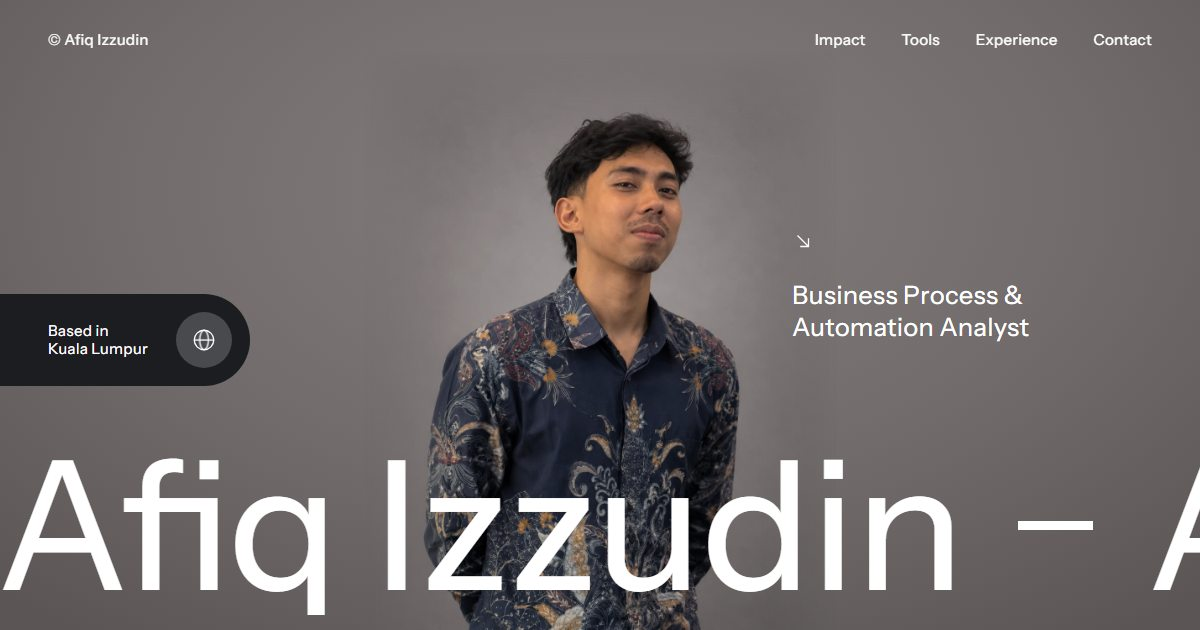
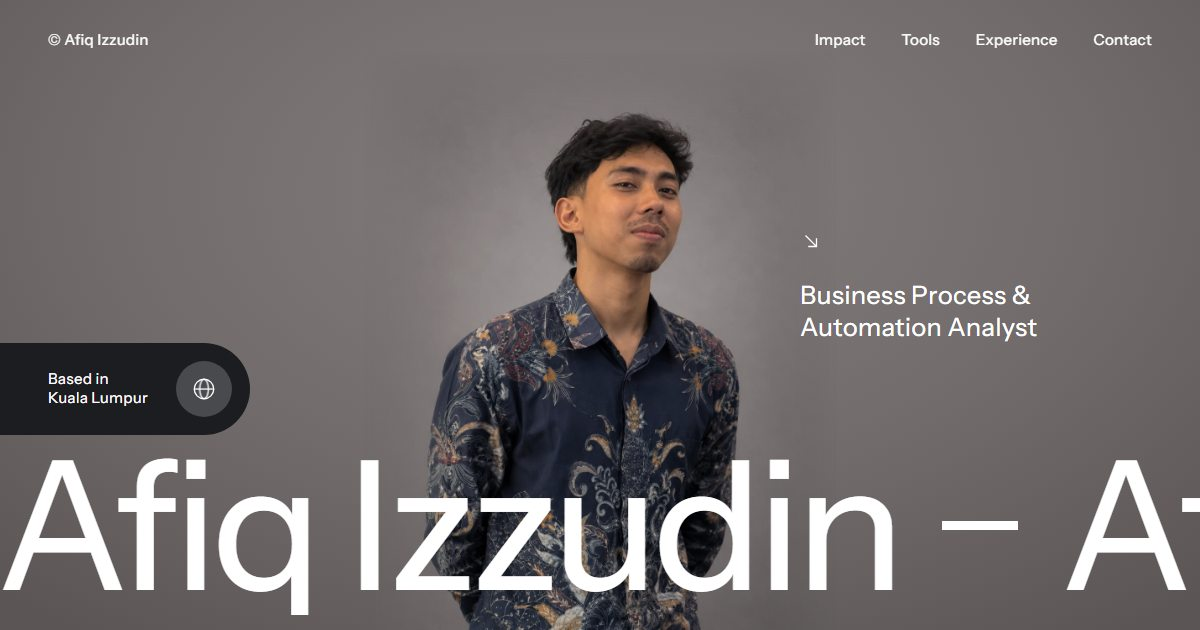
Bring the hero labels closer to the portrait
The location pill now sits right above the moving name, the role moves in
next to the portrait's shoulder, and the name is set a little tighter.

diff --git a/css/style.css b/css/style.css
@@ -243,6 +243,9 @@ html.lenis body {
 /* ---------- Hero ---------- */
 
 .hero {
+  /* Shared by the moving name and the location pill that sits on top of it. */
+  --name-size: clamp(88px, 15vw, 232px);
+  --name-bottom: clamp(12px, 4vh, 44px);
   position: relative;
   height: 100svh;
   min-height: 640px;
@@ -272,7 +275,7 @@ html.lenis body {
 
 .hero__location {
   position: absolute;
-  top: 46%;
+  bottom: calc(var(--name-bottom) + var(--name-size));
   left: 0;
   display: flex;
   align-items: center;
@@ -312,11 +315,12 @@ html.lenis body {
   to { transform: scaleX(-1); }
 }
 
+/* Starts just past the portrait's shoulder, so it follows the photo's height as well as the page width. */
 .hero__role {
   position: absolute;
   top: 36%;
   right: var(--gutter);
-  width: min(360px, 30vw);
+  left: calc(50% + max(16vw, 21svh + 64px, 200px));
   font-size: clamp(20px, 2.1vw, 32px);
   line-height: 1.25;
 }
@@ -334,7 +338,7 @@ html.lenis body {
 .marquee {
   position: absolute;
   right: 0;
-  bottom: clamp(12px, 4vh, 44px);
+  bottom: var(--name-bottom);
   left: 0;
   overflow: hidden;
   pointer-events: none;
@@ -349,10 +353,10 @@ html.lenis body {
 .marquee__item {
   display: flex;
   align-items: center;
-  padding-right: 0.3em;
-  font-size: clamp(88px, 15vw, 232px);
+  padding-right: 0.24em;
+  font-size: var(--name-size);
   line-height: 1;
-  letter-spacing: 0;
+  letter-spacing: -0.03em;
   white-space: nowrap;
 }
 
@@ -361,7 +365,7 @@ html.lenis body {
   display: inline-block;
   width: 0.42em;
   height: 0.05em;
-  margin-left: 0.3em;
+  margin-left: 0.24em;
   background: currentColor;
 }
 
@@ -1035,6 +1039,7 @@ html.lenis body {
 
   .hero__location {
     top: 20%;
+    bottom: auto;
   }
 
   .footer__rule .circle-btn {
